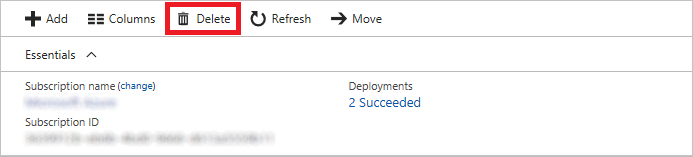
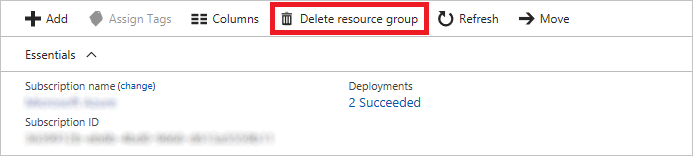
Updated ACS lab

diff --git a/Open Dev Framework/Docker/Session 2 - Hands On/Docker and Azure Container Service HOL.html b/Open Dev Framework/Docker/Session 2 - Hands On/Docker and Azure Container Service HOL.html
@@ -1,7 +1,7 @@
 <!DOCTYPE html>
 <html>
 <head>
-<title>Docker and Azure Container Service HOL</title>
+<title>readme</title>
 <meta http-equiv="Content-Type" content="text/html; charset=utf-8" />
 <style type="text/css">
 /* GitHub stylesheet for MarkdownPad (http://markdownpad.com) */
@@ -691,20 +691,21 @@ ls
 <p>Now comes the fun part: creating a Docker image and running it inside a container in Azure. If you haven't already installed the Docker client, refer to the instructions at the beginning of this lab to download and install the Docker client for your operating system.</p>
 <ol>
 <li>
-<p>Open a terminal window (macOS or Linux) or a Command Prompt window (Windows) and navigate to the "resources" subdirectory of this lab. It contains the files that you will build into a container image.</p>
-<p>Take a moment to examine the contents of the "resources" subdirectory. It contains a file named <strong>Dockerfile</strong>, which contains the commands Docker will use to build a container image. It also contains a Python script named <strong>convertimages.py</strong>, a subdirectory named "input," and a subdirectory named "output." The latter subdirectory is empty. The "input" subdirectory contains several color JPG images. The Python script enumerates the files in the "input" subdirectory, converts them to grayscale, and writes the grayscale images to the "output" subdirectory.</p>
+<p>Open a terminal window (macOS or Linux) or a Command Prompt window (Windows) and navigate to the "resources" subdirectory of this lab. It contains the files that you will build into a container image. If the "resources" subdirectory doesn't already contain a subdirectory named "output," use the following command to create one:</p>
+ <pre>mkdir output</pre>
+</li>
+<li>
+<p>Take a moment to examine the contents of the "resources" subdirectory. It contains a file named <strong>Dockerfile</strong>, which contains the commands Docker will use to build a container image. It also contains a Python script named <strong>convertimages.py</strong>, a subdirectory named "input," and a subdirectory named "output." The "input" subdirectory contains several color JPG images. The Python script enumerates the files in the "input" subdirectory, converts them to grayscale, and writes the grayscale images to the "output" subdirectory.</p>
 </li>
 <li>
 <p>If you are running macOS or Linux, execute the following command in the terminal window:</p>
  <pre>export DOCKER_HOST=tcp://127.0.0.1:22375</pre>
 <p>If you are running Windows instead, execute this command in the Command Prompt window:</p>
  <pre>set DOCKER_HOST=tcp://127.0.0.1:22375</pre>
-<blockquote>
 <p>This command directs the Docker client to send output to localhost port 22375, which you redirected to port 2375 in the Azure Container Service in the previous exercise. Remember that port 2375 is the one Docker Swarm listens on. The commands that you execute in the next few steps are typed into a local terminal window, but they are <strong>executed in the container service you deployed to the cloud</strong> using the SSH tunnel that you established in the previous exercise.</p>
-</blockquote>
 </li>
 <li>
-<p>Be sure you're in the "resources" subdirectory. Then execute the following command to create a container image named "ubuntu-convert" containing the Python script as well as the "input" and "output" subdirectories and their contents. Be sure to include the period at the end of the command:</p>
+<p>Still in the "resources" subdirectory, execute the following command to create a container image named "ubuntu-convert" containing the Python script as well as the "input" and "output" subdirectories and their contents. Be sure to include the period at the end of the command:</p>
  <pre>docker build --no-cache --tag ubuntu-convert .</pre>
 </li>
 <li>
@@ -723,7 +724,7 @@ ls
 <p>If the Python script ran successfully, the "output" subdirectory in the container should contain grayscale versions of the JPG files in the "input" subdirectory. Use the following command to copy the files from the "output" subdirectory in the container to the "output" subdirectory on the local machine:</p>
  <pre>docker cp acslab:/output .</pre>
 <blockquote>
-<p>Because you are still in the lab's "resources" subdirectory, this command will copy the grayscale images to the "resources" subdirectory's "output" subdirectory.</p>
+<p>Because you are still in the "resources" subdirectory, this command will copy the grayscale images to that directory's "output" subdirectory.</p>
 </blockquote>
 </li>
 <li>
@@ -767,7 +768,7 @@ ls
 <p>In this exercise, you will delete the resource group created in <a href="#Exercise2">Exercise 2</a> when you created the container service. Deleting the resource group deletes everything in it and prevents any further charges from being incurred for it.</p>
 <ol>
 <li>
-<p>In the Azure Portal, open the blade for the "ACSLabResourceGroup" resource group. Then click the <strong>Delete</strong> button at the top of the blade.</p>
+<p>In the Azure Portal, open the blade for the "ACSLabResourceGroup" resource group. Then click the <strong>Delete resource group</strong> button at the top of the blade.</p>
 <p><a href="Images/delete-resource-group.png" target="_blank"><img src="Images/delete-resource-group.png" alt="Deleting a resource group" style="max-width:100%;"></a></p>
 <p><em>Deleting a resource group</em></p>
 </li>

diff --git a/Open Dev Framework/Docker/Session 2 - Hands On/readme.md b/Open Dev Framework/Docker/Session 2 - Hands On/readme.md
@@ -246,9 +246,11 @@ Now that you're connected, you can run the Docker client on your local machine a
 
 Now comes the fun part: creating a Docker image and running it inside a container in Azure. If you haven't already installed the Docker client, refer to the instructions at the beginning of this lab to download and install the Docker client for your operating system. 
 
-1. Open a terminal window (macOS or Linux) or a Command Prompt window (Windows) and navigate to the "resources" subdirectory of this lab. It contains the files that you will build into a container image.
+1. Open a terminal window (macOS or Linux) or a Command Prompt window (Windows) and navigate to the "resources" subdirectory of this lab. It contains the files that you will build into a container image. If the "resources" subdirectory doesn't already contain a subdirectory named "output," use the following command to create one:
 
-	Take a moment to examine the contents of the "resources" subdirectory. It contains a file named **Dockerfile**, which contains the commands Docker will use to build a container image. It also contains a Python script named **convertimages.py**, a subdirectory named "input," and a subdirectory named "output." The latter subdirectory is empty. The "input" subdirectory contains several color JPG images. The Python script enumerates the files in the "input" subdirectory, converts them to grayscale, and writes the grayscale images to the "output" subdirectory.
+	<pre>mkdir output</pre>
+
+1. Take a moment to examine the contents of the "resources" subdirectory. It contains a file named **Dockerfile**, which contains the commands Docker will use to build a container image. It also contains a Python script named **convertimages.py**, a subdirectory named "input," and a subdirectory named "output." The "input" subdirectory contains several color JPG images. The Python script enumerates the files in the "input" subdirectory, converts them to grayscale, and writes the grayscale images to the "output" subdirectory.
 
 1. If you are running macOS or Linux, execute the following command in the terminal window:
 
@@ -258,9 +260,9 @@ Now comes the fun part: creating a Docker image and running it inside a containe
 
 	<pre>set DOCKER_HOST=tcp://127.0.0.1:22375</pre>
 
-	> This command directs the Docker client to send output to localhost port 22375, which you redirected to port 2375 in the Azure Container Service in the previous exercise. Remember that port 2375 is the one Docker Swarm listens on. The commands that you execute in the next few steps are typed into a local terminal window, but they are **executed in the container service you deployed to the cloud** using the SSH tunnel that you established in the previous exercise.
+	This command directs the Docker client to send output to localhost port 22375, which you redirected to port 2375 in the Azure Container Service in the previous exercise. Remember that port 2375 is the one Docker Swarm listens on. The commands that you execute in the next few steps are typed into a local terminal window, but they are **executed in the container service you deployed to the cloud** using the SSH tunnel that you established in the previous exercise.
 
-1. Be sure you're in the "resources" subdirectory. Then execute the following command to create a container image named "ubuntu-convert" containing the Python script as well as the "input" and "output" subdirectories and their contents. Be sure to include the period at the end of the command:
+1. Still in the "resources" subdirectory, execute the following command to create a container image named "ubuntu-convert" containing the Python script as well as the "input" and "output" subdirectories and their contents. Be sure to include the period at the end of the command:
 
 	<pre>docker build --no-cache --tag ubuntu-convert .</pre>
 
@@ -280,7 +282,7 @@ Now comes the fun part: creating a Docker image and running it inside a containe
 
 	<pre>docker cp acslab:/output .</pre>
 
-	> Because you are still in the lab's "resources" subdirectory, this command will copy the grayscale images to the "resources" subdirectory's "output" subdirectory.
+	> Because you are still in the "resources" subdirectory, this command will copy the grayscale images to that directory's "output" subdirectory.
 
 1. Stop the running container by executing the following command:
 
@@ -328,7 +330,7 @@ Resource groups are a useful feature of Azure because they simplify the task of 
 
 In this exercise, you will delete the resource group created in [Exercise 2](#Exercise2) when you created the container service. Deleting the resource group deletes everything in it and prevents any further charges from being incurred for it.
 
-1. In the Azure Portal, open the blade for the "ACSLabResourceGroup" resource group. Then click the **Delete** button at the top of the blade.
+1. In the Azure Portal, open the blade for the "ACSLabResourceGroup" resource group. Then click the **Delete resource group** button at the top of the blade.
 
 	![Deleting a resource group](Images/delete-resource-group.png)
 
